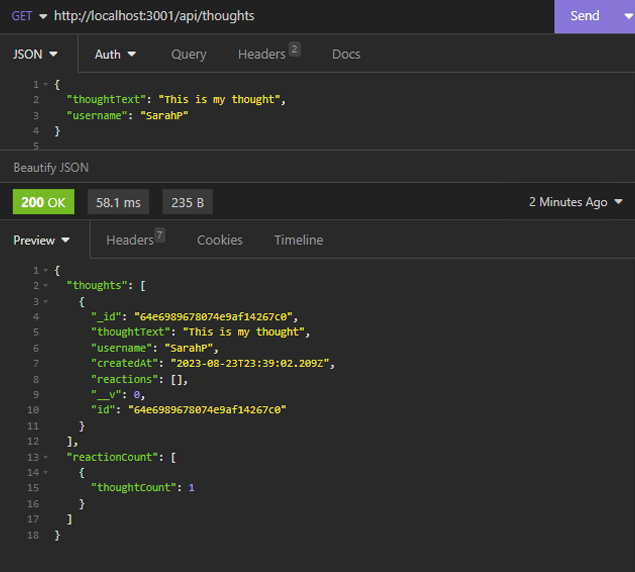
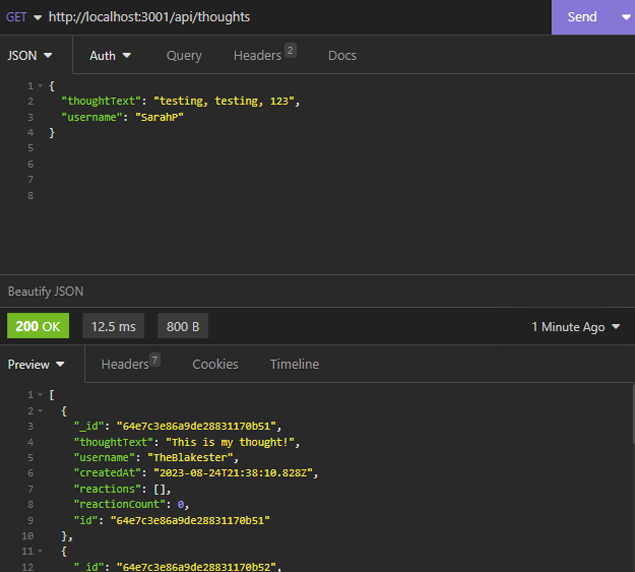
resolve error with posting reactions, adding friends, and adding thoughts to users

diff --git a/controllers/thoughtController.js b/controllers/thoughtController.js
@@ -1,25 +1,14 @@
-const { ObjectId } = require('mongoose').Types;
+// const { ObjectId } = require('mongoose').Types;
 const { User, Thought } = require('../models');
 
-// Aggregate function to get the number of thoughts
-const reactionCount = async () => {
-  const numberOfThoughts = await Thought.aggregate()
-    .count('thoughtCount');
-  return numberOfThoughts;
-}
 
 module.exports = {
   // Get all thoughts
   async getThoughts(req, res) {
     try {
-      const thoughts = await Thought.find();
+      const thoughts = await Thought.find( {}, {"reactions._id": 0} );
 
-      const thoughtObj = {
-        thoughts,
-        reactionCount: await reactionCount(),
-      };
-
-      res.json(thoughtObj);
+      res.json(thoughts);
     } catch (err) {
       console.log(err);
       return res.status(500).json(err);
@@ -28,16 +17,13 @@ module.exports = {
   // Get a single thought
   async getSingleThought(req, res) {
     try {
-      const thought = await Thought.findOne({ _id: req.params.thoughtId })
-        .select('-__v');
+      const thought = await Thought.findOne({ _id: req.params.thoughtId }, {"reactions._id": 0});
 
       if (!thought) {
         return res.status(404).json({ message: 'No thought with that ID' })
       }
 
-      res.json({
-        thought
-      });
+      res.json({ thought });
     } catch (err) {
       console.log(err);
       return res.status(500).json(err);
@@ -47,6 +33,13 @@ module.exports = {
   async createThought(req, res) {
     try {
       const thought = await Thought.create(req.body);
+
+      const user = await User.findOneAndUpdate(
+        { username: req.body.username },
+        { $push: { thoughts: thought._id } },
+        { new: true }
+      );
+
       res.json(thought);
     } catch (err) {
       res.status(500).json(err);
@@ -58,22 +51,10 @@ module.exports = {
     try {
       const thought = await Thought.findOneAndUpdate(
         { _id: req.params.thoughtId },
-        { new: true });
+        { new: true, fields: {"reactions._id": 0} });
 
       if (!thought) {
         return res.status(404).json({ message: 'No such thought exists' });
-      }
-
-      const user = await User.findOneAndUpdate(
-        { thoughts: req.params.thoughtId },
-        { $update: { thoughts: req.params.thoughtId } },
-        { new: true }
-      );
-
-      if (!user) {
-        return res.status(404).json({
-          message: 'thought updated, but no users found',
-        });
       }
 
       res.json({ message: 'thought successfully updated' });
@@ -120,7 +101,7 @@ module.exports = {
       const thought = await Thought.findOneAndUpdate(
         { _id: req.params.thoughtId },
         { $addToSet: { reactions: req.body } },
-        { runValidators: true, new: true }
+        { runValidators: true, new: true, fields: {"reactions._id": 0} }
       );
 
       if (!thought) {
@@ -139,7 +120,7 @@ module.exports = {
     try {
       const thought = await Thought.findOneAndUpdate(
         { _id: req.params.thoughtId },
-        { $pull: { reaction: { reactionId: req.params.reactionId } } },
+        { $pull: { reactions: { reactionId: req.params.reactionId } } },
         { runValidators: true, new: true }
       );
 

diff --git a/controllers/userController.js b/controllers/userController.js
@@ -58,8 +58,7 @@ module.exports = {
   // Get a user
   async getSingleUser(req, res) {
     try {
-      const user = await User.findOne({ _id: req.params.userId })
-        .select('-__v');
+      const user = await User.findOne({ _id: req.params.userId });
 
       if (!user) {
         return res.status(404).json({ message: 'No user with that ID' });
@@ -121,7 +120,7 @@ module.exports = {
     try {
       const user = await User.findOneAndUpdate(
         { _id: req.params.userId },
-        { $addToSet: { friends: req.params.friendId } },
+        { $addToSet: { friends: req.body.friendId } },
         { runValidators: true, new: true }
       );
 

diff --git a/models/User.js b/models/User.js
@@ -12,7 +12,14 @@ const userSchema = new Schema(
       type: String,
       required: true,
       unique: true,
-      match: /.+\@.+\..+/,
+      validate: {
+        validator: function(e) {
+          const regex = /^([a-z0-9_\.-]+)@([\da-z\.-]+)\.([a-z\.]{2,6})$/;
+          const result = regex.test(e);
+          return result;
+        },
+        message: 'You must provide a valid email.',
+      },
     },
     thoughts: [
       {

diff --git a/models/Thought.js b/models/Thought.js
@@ -26,8 +26,10 @@ const thoughtSchema = new Schema(
   }
 );
 
-const Thought = model('thought', thoughtSchema);
+thoughtSchema.virtual('reactionCount').get(function () {
+  return this.reactions.length;
+});
 
-// Create a virtual called `reactionCount` that retrieves the length of the thought's `reactions` array field on query.
+const Thought = model('thought', thoughtSchema);
 
 module.exports = Thought;

diff --git a/models/Reaction.js b/models/Reaction.js
@@ -28,6 +28,6 @@ const reactionSchema = new Schema(
   }
 );
 
-// This will not be a model, but rather will be used as the `reaction` field's subdocument schema in the `Thought` model.
+reactionSchema.path('reactionId');
 
 module.exports = reactionSchema;

diff --git a/routes/api/userRoutes.js b/routes/api/userRoutes.js
@@ -19,7 +19,7 @@ router
   .put(updateUser)
   .delete(deleteUser);
 
-// /api/users/:userId/friends/:friendId
+// /api/users/:userId/friends/
 router.route('/:userId/friends').post(addFriend);
 
 // /api/users/:userId/friends/:friendId
